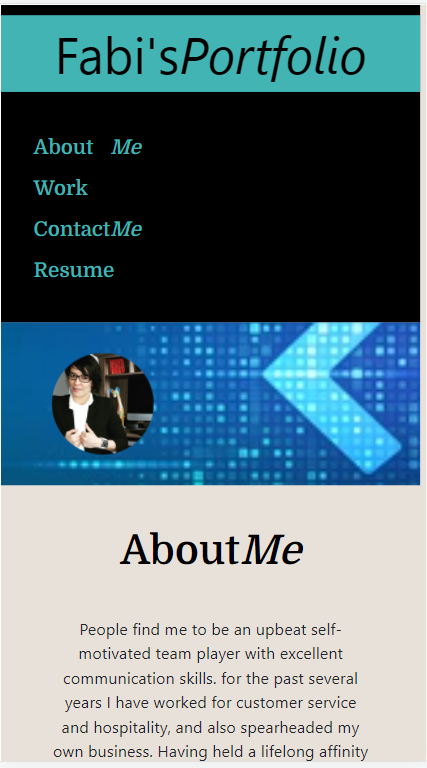
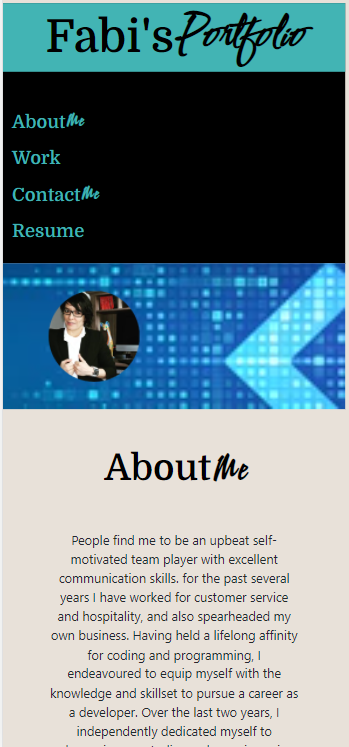
Added some information in the reademe.md file

diff --git a/index.html b/index.html
@@ -26,8 +26,10 @@
 <body>
 
     <header>
-        <a href="">Fabi's<span>Portfolio</a>
-
+        <a href="">Fabi's<span>Portfolio</span>
+            <p class="title-description">Full-Stack Web Developer</p> 
+        </a>
+        
         <nav>
             <ul>
                 <li>

diff --git a/css/style.css b/css/style.css
@@ -20,6 +20,10 @@ span{
     font-family: 'Comforter', 'cursive' !important;
     font-weight: bolder;
 }
+.title-description{
+    font-size: 16px;
+    padding:0 5px 0;
+}
 
 header{
     width: 100%;

diff --git a/README.md b/README.md
@@ -11,8 +11,15 @@
 - CSS
 - Bootstrap
 
+# Information
 
-![Fabi's Potfolio](./assets/images/Fabs-potfolio.png)
+* Fabiola C. Gamboa
+* [Github](https://github.com/Fabskickass/Professional-Portfolio)
+* [Email](fabiscg79@gmail.com)
+
+
+
+![Fabi's Potfolio](./assets/images/Fabs-portfolio.png)
 
 ![Phone's Mock-up](./assets/images/smartphone-design.png)
 
